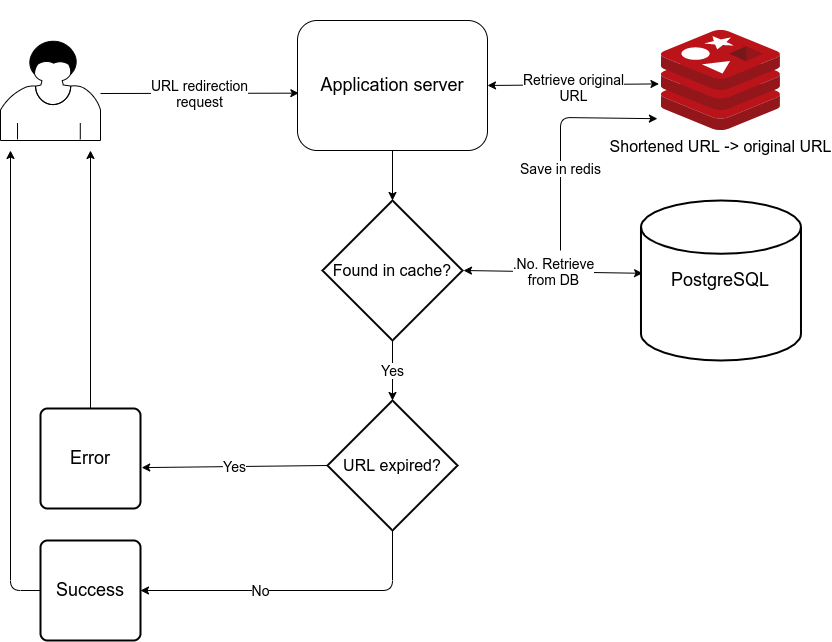
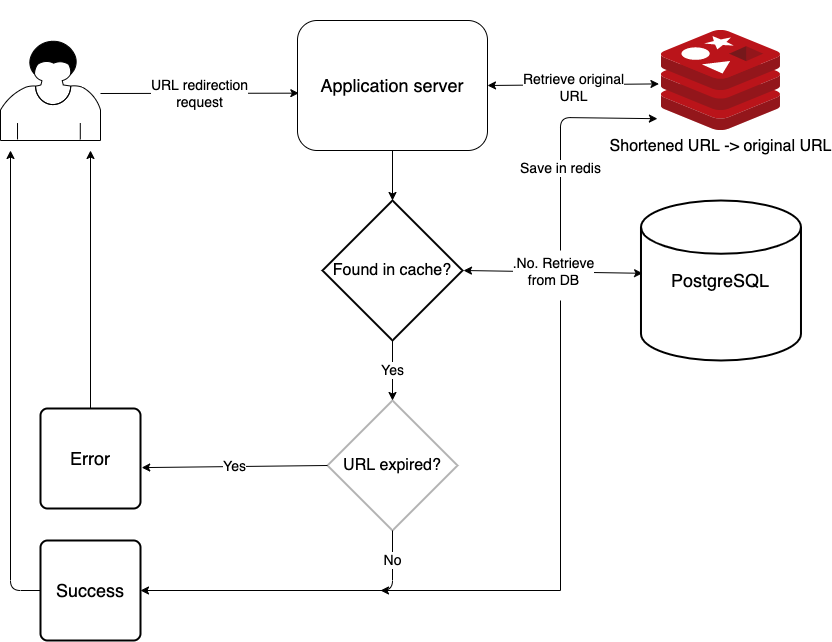
Update url key length to 7. Update diagram

diff --git a/src/services/impl/keyGeneration.ts b/src/services/impl/keyGeneration.ts
@@ -4,7 +4,7 @@ import { urlSafe } from '../../utils/urlSafe';
 
 export class KeyGenerationServiceImpl implements KeyGeneration {
   public static readonly NUM_KEYS_TO_GENERATE = 50;
-  public static readonly KEY_LENGTH = 6;
+  public static readonly KEY_LENGTH = 7;
 
   public generate(
     num: number = KeyGenerationServiceImpl.NUM_KEYS_TO_GENERATE

diff --git a/README.md b/README.md
@@ -74,13 +74,6 @@ e.g. https://www.fodors.com/community/travel-tips-and-trip-ideas/should-i-go-for
 * Can shorten a URL with custom alias  
 e.g. https://www.fodors.com/community/travel-tips-and-trip-ideas/should-i-go-for-a-gopro-dslr-or-drone-1140434/ -> https://preview.tinyurl.com/goprodslrdrone
 
-**Short URL**
-We will generate the short url using base62 conversion instead of passing the URL through a hash function.
-
-This solves the issue of hash collision due to truncation of the hash value because it is too long.
-
-However, this means that the same URL will not produce the same hash.
-
 ## 2. Visit a shortened url
 * Visiting a shortened URL with or without custom alias should redirect to the original URL.
 
@@ -90,18 +83,26 @@ However, this means that the same URL will not produce the same hash.
 * Set a character limit on custom alias(e.g. 16)
 * Links should expire after some time(e.g. 2 years)
 
+
+**Generate short URL**
+We will generate the short url using base62 conversion instead of passing the URL through a hash function.
+
+This solves the issue of hash collision due to truncation of the hash value because it is too long.
+
+However, this means that the same URL will not produce the same hash.
+
 ## Capacity estimation
 * Read to write volume ratio: 50:1
 
 ### Traffic
 
 **URL shortening requests**
-* Requests per month: 100M
-  * Queries per sec: 100M / (30 days * 24 hours * 60 * mins * 60 secs) = 38.58 ~ 39
+* Requests per day: 10M
+  * Queries per sec: 10M / (24 hours * 60 * mins * 60 secs) = 115
 
 **URL redirection requests**
-* Requests per month: 100M * 50 = 5B
-  * Queries per sec: 5B / (30 days * 24 hours * 60 * mins * 60 secs) = 1929
+* Requests per day: 10M * 50 ratio = 500M
+  * Queries per sec: 500M / (24 hours * 60 * mins * 60 secs) = 5787
 
 ### Storage
 PostgreSQL: Shortened URLs and original URLs  
@@ -113,13 +114,14 @@ URL table
 * createdAt: datetime
 * expireAt: datetime
 
-URLs for 2 years: 100M * 12 months * 2 years = 2.4B
+URLs for 2 years: 10M * 30 days * 12 months * 2 years = 7.2B
 Max size of an URL entry in DB: 16 + 1024 + 8 + 8 = 1048 bytes
-Storage: 2.4B * 1048 bytes per URL = 2.5152TB
+Storage: 7.2B * 1048 bytes per URL = 7.545TB
 
 **Encoding of URL**
 Generate a cryptographically strong pseudo random data, encode it with base62.
-A 6 character key will result in 62^6 = 56.8B possible strings
+A 6 character key will result in 62^6 = 56.8 billion possible strings
+A 7 character key will result in 62^7 = 3.52 trillion possible strings
 
 **Memory**
 Let's assume 10% of the URLs are accessed frequently and will be cached.  
@@ -151,8 +153,7 @@ Each key contains 6 characters.
 * Check URL: Check where a shortened URL redirects to
 
 # TODO
-* Use redis when receiving redirect requests
 * URL shortening: Check if URL is stored in the database. If it is, return the short url
 * Key generation: do not check against the database for existing short urls because there can still be a conflict due to concurrency. Let the database handle the conflict
+* Handle expired keys
 * load test with multiple instances of API service and database
-* Update requests per day to 100M
